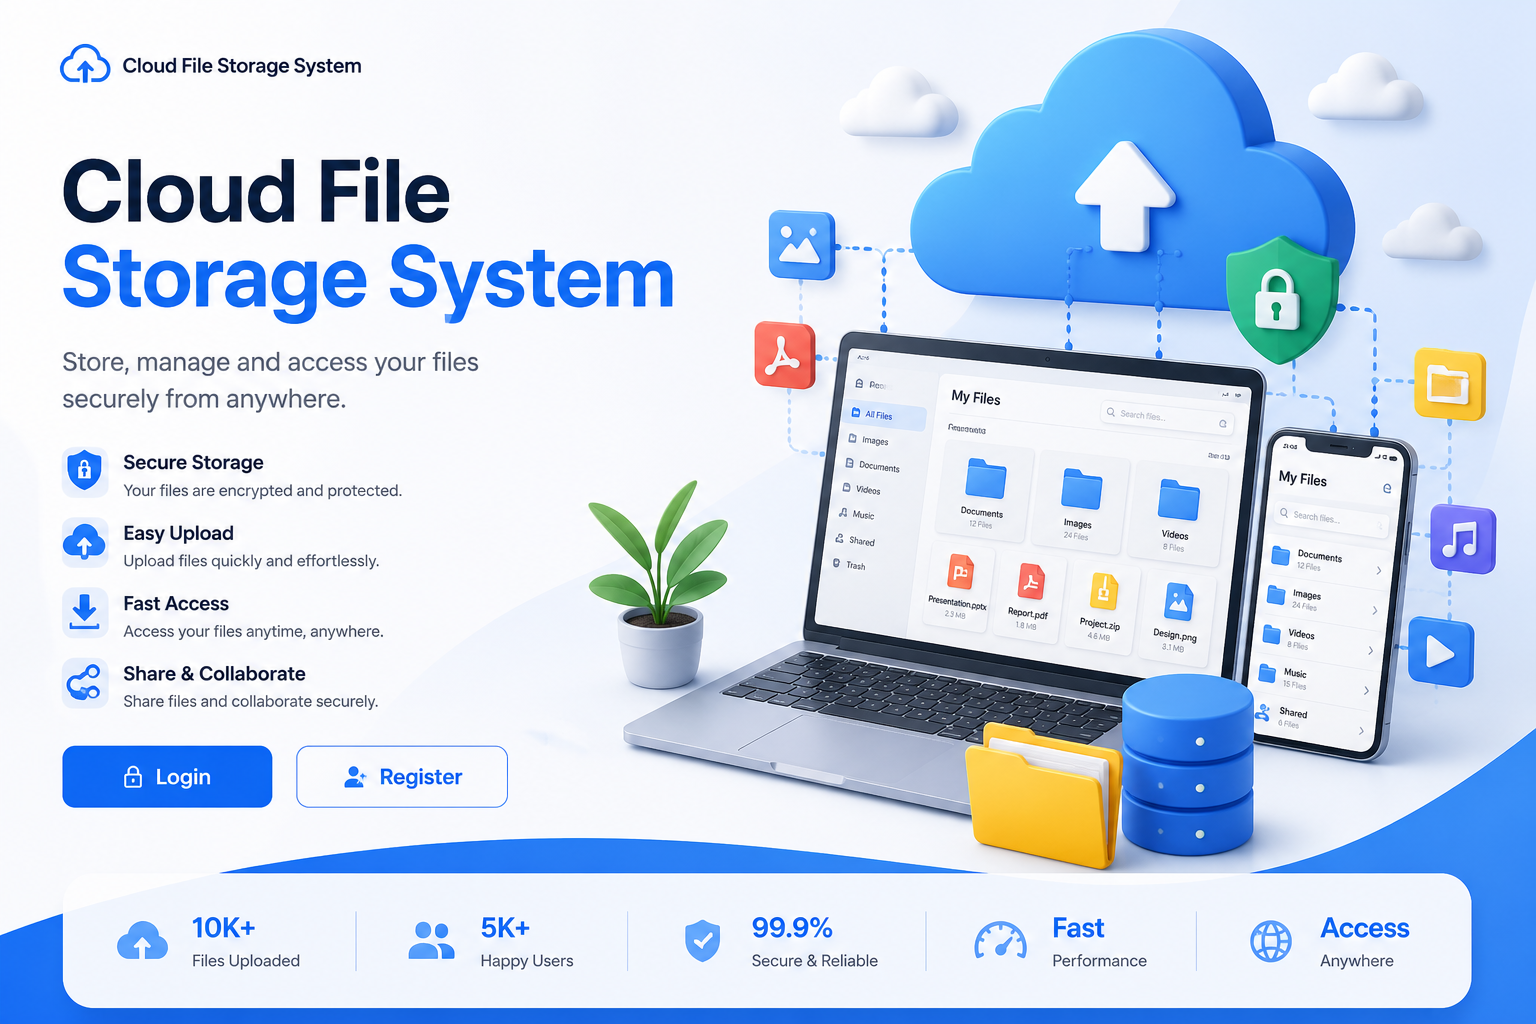
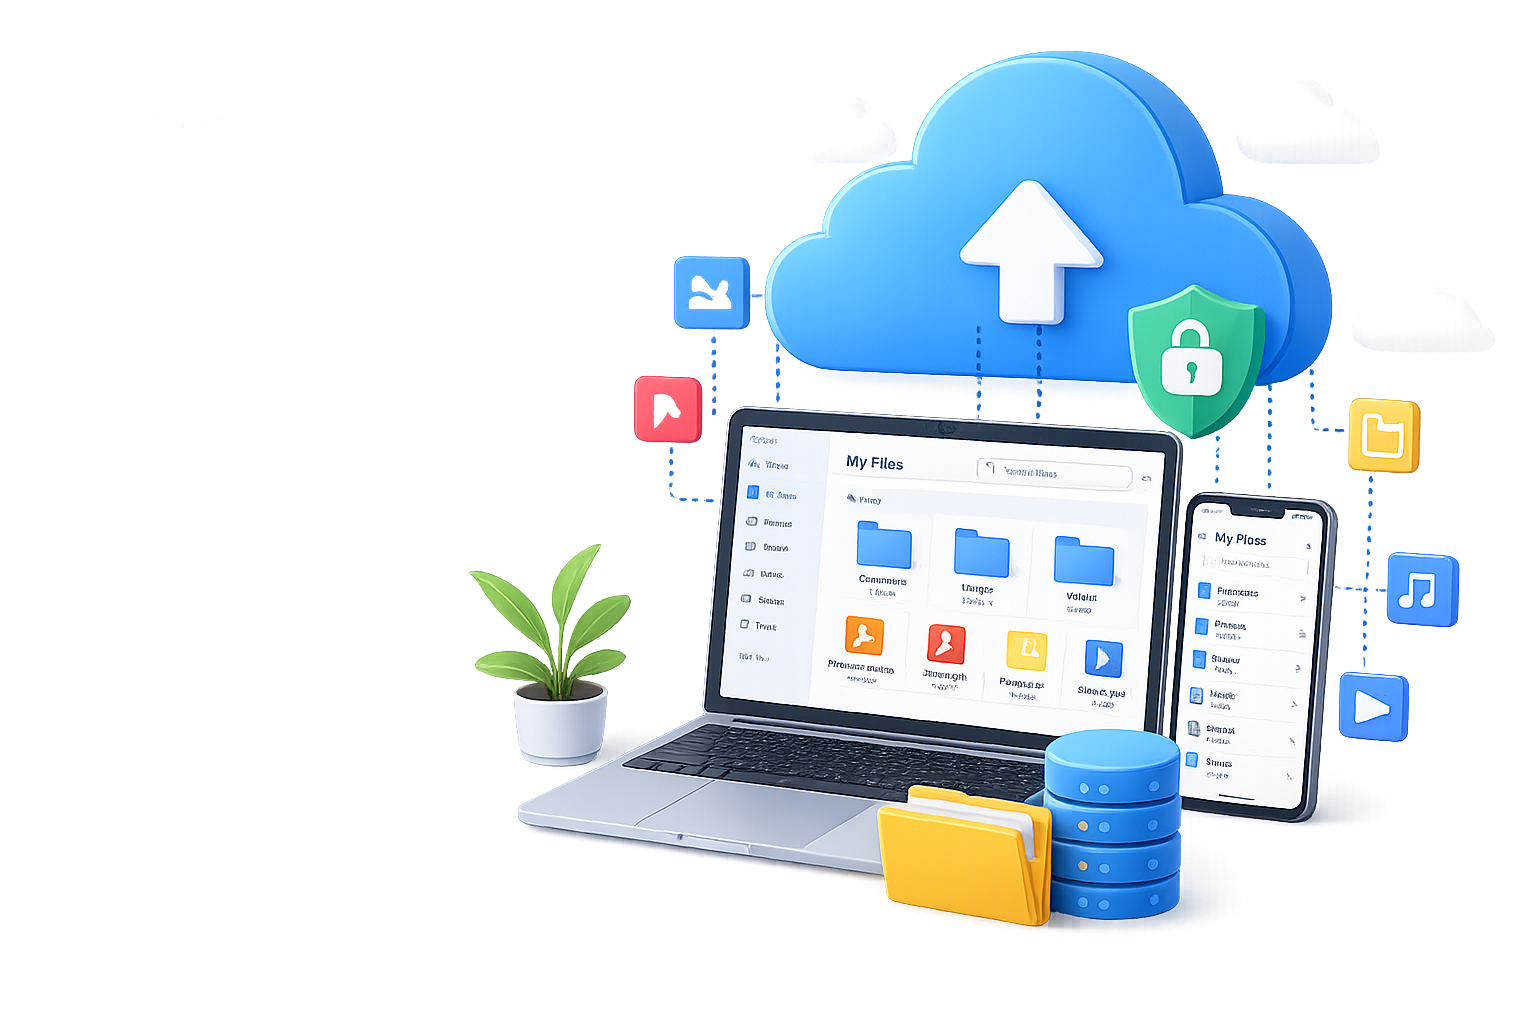
Add hero image

diff --git a/templates/index.html b/templates/index.html
@@ -16,7 +16,7 @@ Home
         Store, manage and access your files securely from anywhere.
     </p>
 
-    <img src="{{ url_for('static', filename='images/hero.png.jpg') }}"
+    <img src="{{ url_for('static', filename='images/hero.png') }}"
      
      alt="Cloud file storage"
      class="hero-images">
